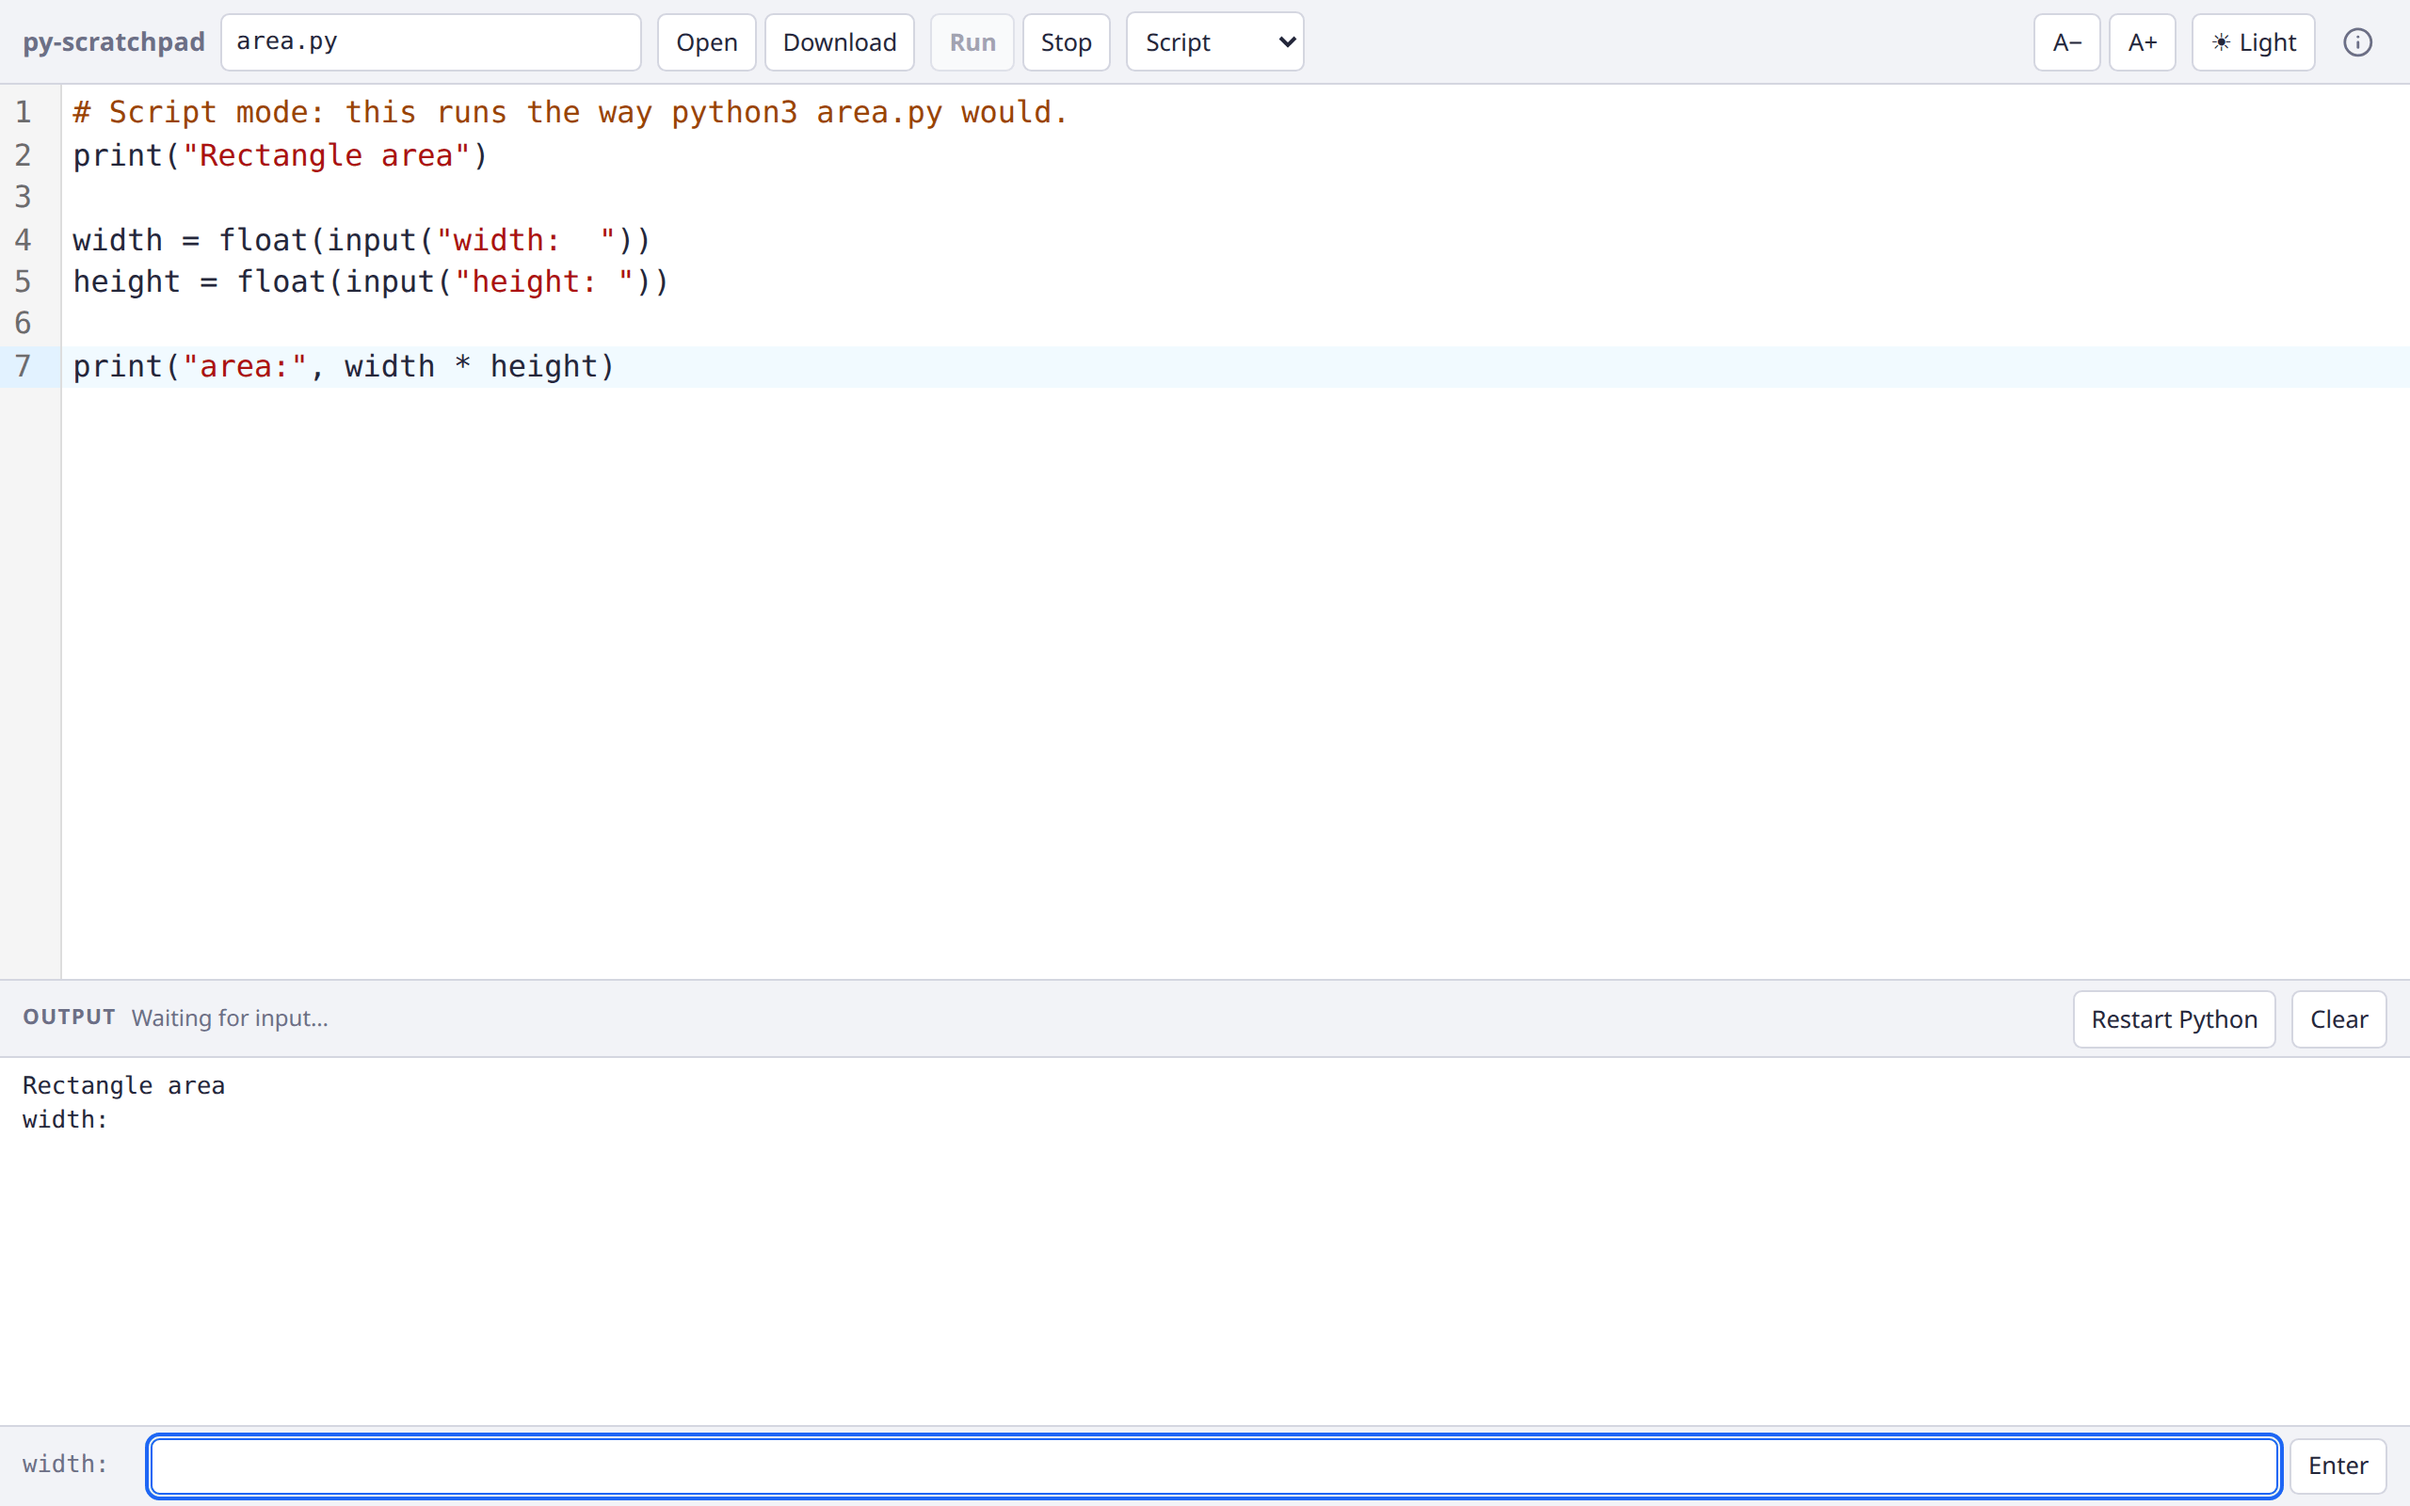
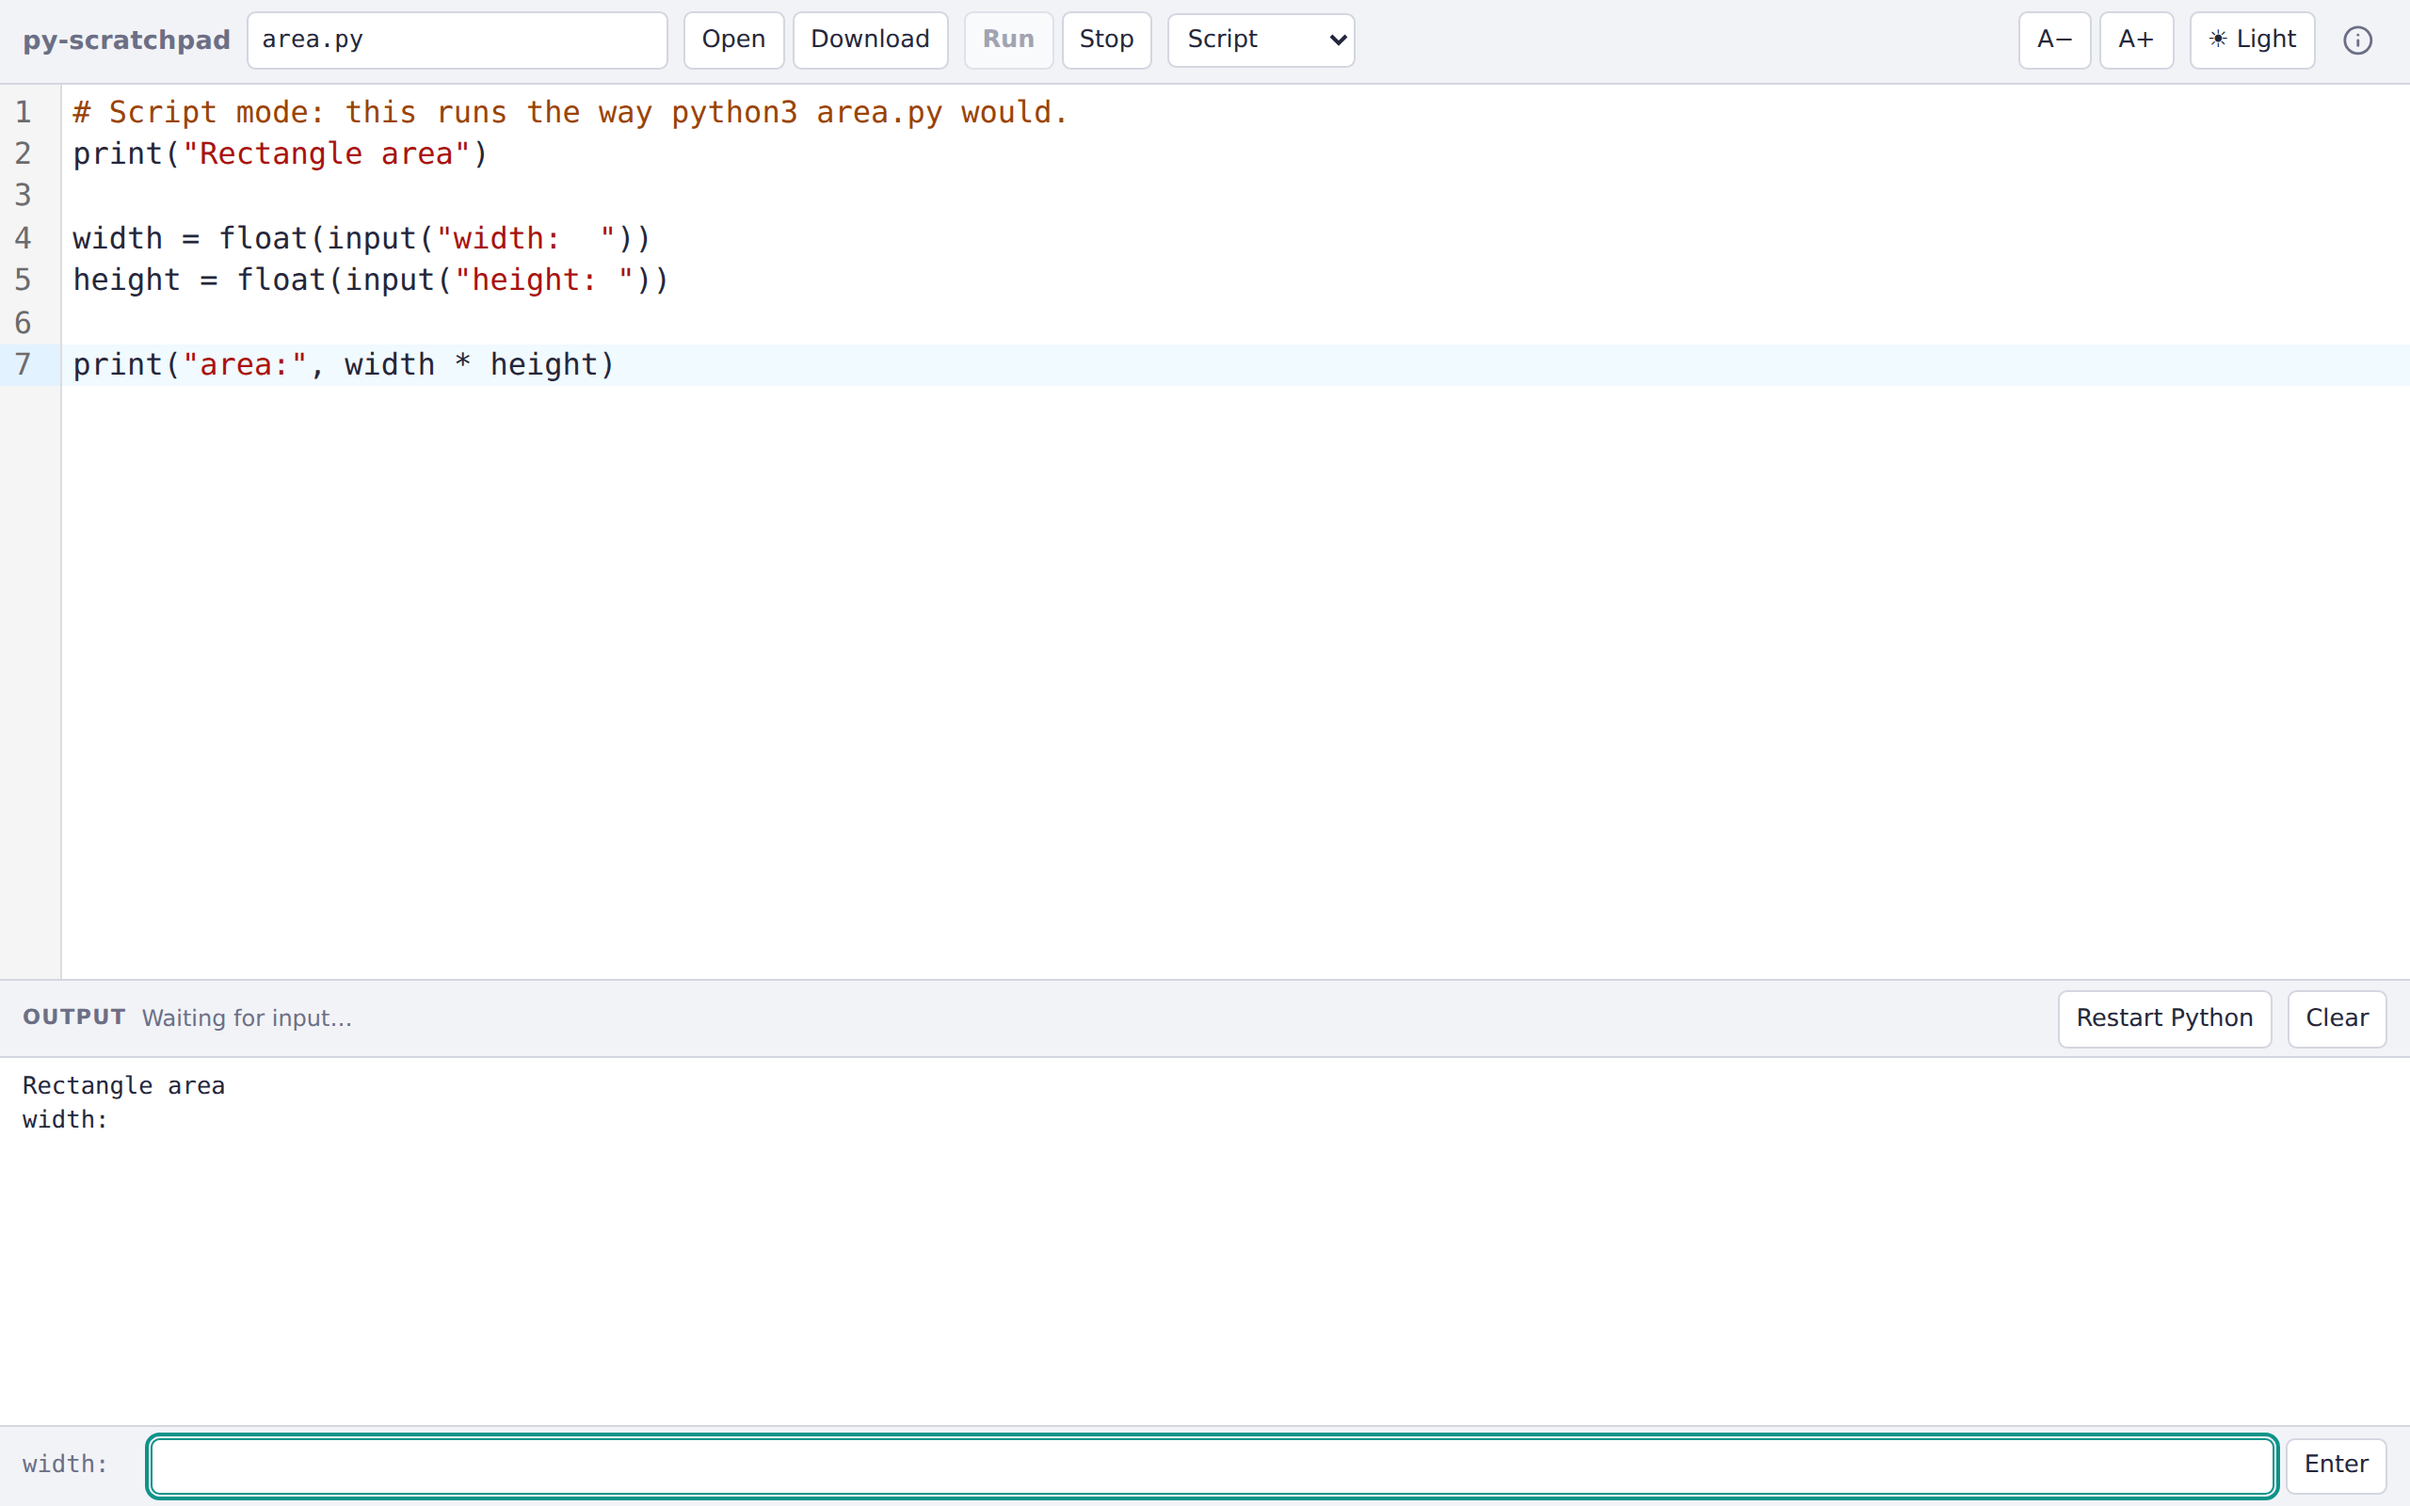
docs: retake README screenshots and og-image for 0.3.10
The images showed the old outline Run button. Retaken with
`npm run build && npm run screenshots` (pinned Chromium, 2x, pngquant).
The run-dark alt text no longer quotes a timing ("Done in 2 ms") that
changes on every run.

og-image.png is served from public/, so the site picks it up with the
next image release; 0.3.10 still serves the previous one.

diff --git a/README.md b/README.md
@@ -17,8 +17,8 @@ Python interpreter is WebAssembly served from the same origin.
 
 ![The py-scratchpad editor on its dark theme, filename hello.py, in REPL echo mode. The buffer
 holds bare arithmetic expressions, a celsius() function and a for loop; the output panel below
-reports "Done in 2 ms" and shows the echoed values 610, 3.5, 3 and 1024 followed by the loop's
-printed lines.](docs/screenshots/run-dark.png)
+reports the run as done and shows the echoed values 610, 3.5, 3 and 1024, followed by the loop's
+printed lines and celsius(98.6)'s 37.0.](docs/screenshots/run-dark.png)
 
 ## Features
 
